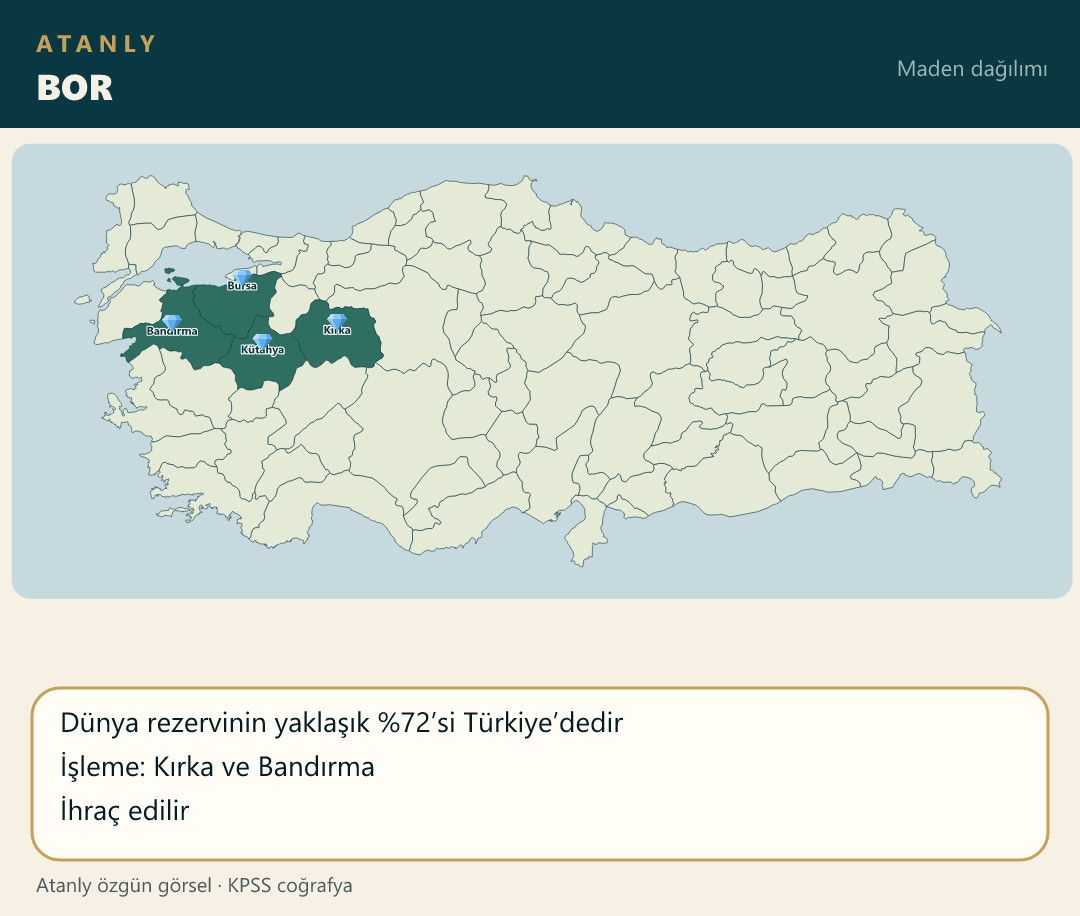
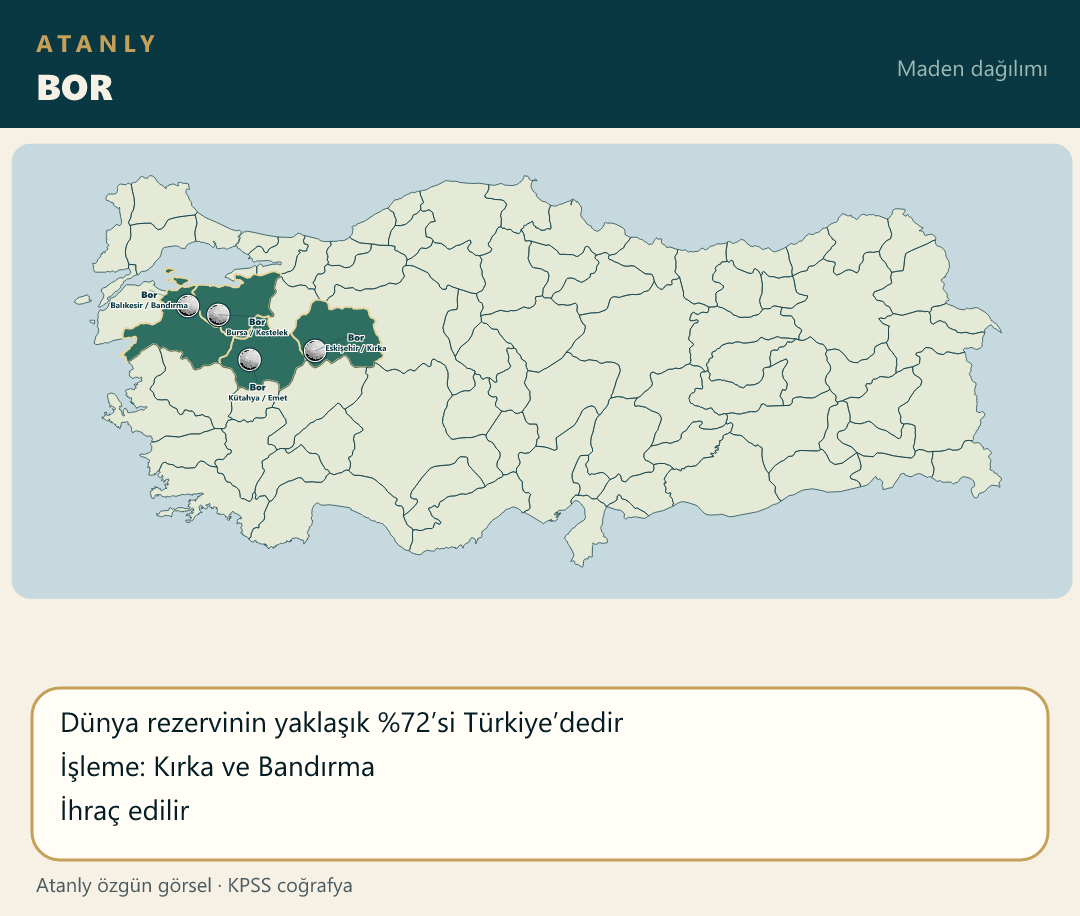
Place the boron crystal photo on Bandırma, Kestelek, Emet and Kırka pins.

Changed region(s): [[0.0917, 0.2751, 0.3667, 0.4585], [0.7028, 0.3668, 0.7333, 0.3974], [0.6417, 0.3974, 0.6722, 0.4279]]

diff --git a/scripts/build-atanly-maps.js b/scripts/build-atanly-maps.js
@@ -1010,8 +1010,13 @@ function main() {
                 { il: "Antalya", ilce: "Alanya", ldx: -36, ldy: 8, pdx: 92, pdy: 8 }
             ],
             facts: ["Petrol kuyularında basıncı artırır", "Alanya · rezerv fazla · ihraç"] },
-        { file: "maden_bor.png", title: "BOR", iller: ["Balıkesir", "Eskişehir", "Kütahya", "Bursa"],
-            yazilar: ["Bandırma", "Kırka", "Kütahya", "Bursa"],
+        { file: "maden_bor.png", title: "BOR", urun: "Bor",
+            noktalar: [
+                { il: "Balıkesir", ilce: "Bandırma", ldx: -38, ldy: -8, pdx: 6, pdy: -22 },
+                { il: "Bursa", ilce: "Kestelek", ldx: 38, ldy: 10, pdx: -16, pdy: 6 },
+                { il: "Kütahya", ilce: "Emet", ldx: 8, ldy: 30, pdx: -14, pdy: 4 },
+                { il: "Eskişehir", ilce: "Kırka", ldx: 40, ldy: -10, pdx: -8, pdy: 16 }
+            ],
             facts: ["Dünya rezervinin yaklaşık %72’si Türkiye’dedir", "İşleme: Kırka ve Bandırma", "İhraç edilir"] },
         { file: "maden_mermer.png", title: "MERMER", iller: ["Afyon", "Balıkesir", "Muğla", "Bursa"],
             yazilar: ["Afyon", "Marmara Adası", "Muğla", "Bursa"],

diff --git a/notlar/cografya-21-not.js b/notlar/cografya-21-not.js
@@ -2,7 +2,7 @@
 (function () {
     function harita(src, alt) {
         return '<div class="mt-4 overflow-hidden rounded-xl border border-blue-200 dark:border-blue-700/50 bg-white dark:bg-slate-800 p-2">' +
-            '<img src="./src/img/' + src + '?v=17" alt="' + alt + ' Haritası" class="w-full h-auto rounded-lg object-contain" loading="lazy">' +
+            '<img src="./src/img/' + src + '?v=18" alt="' + alt + ' Haritası" class="w-full h-auto rounded-lg object-contain" loading="lazy">' +
             "</div>";
     }
 

diff --git a/index.html b/index.html
@@ -119,7 +119,7 @@
     <script src="notlar/cografya-18-not.js?v=17"></script>
     <script src="notlar/cografya-19-not.js?v=25"></script>
     <script src="notlar/cografya-20-not.js?v=1"></script>
-    <script src="notlar/cografya-21-not.js?v=10"></script>
+    <script src="notlar/cografya-21-not.js?v=11"></script>
     <script src="notlar/cografya-22-not.js?v=1"></script>
     <script src="notlar/cografya-23-not.js?v=1"></script>
     <script src="notlar/cografya-24-not.js?v=1"></script>
